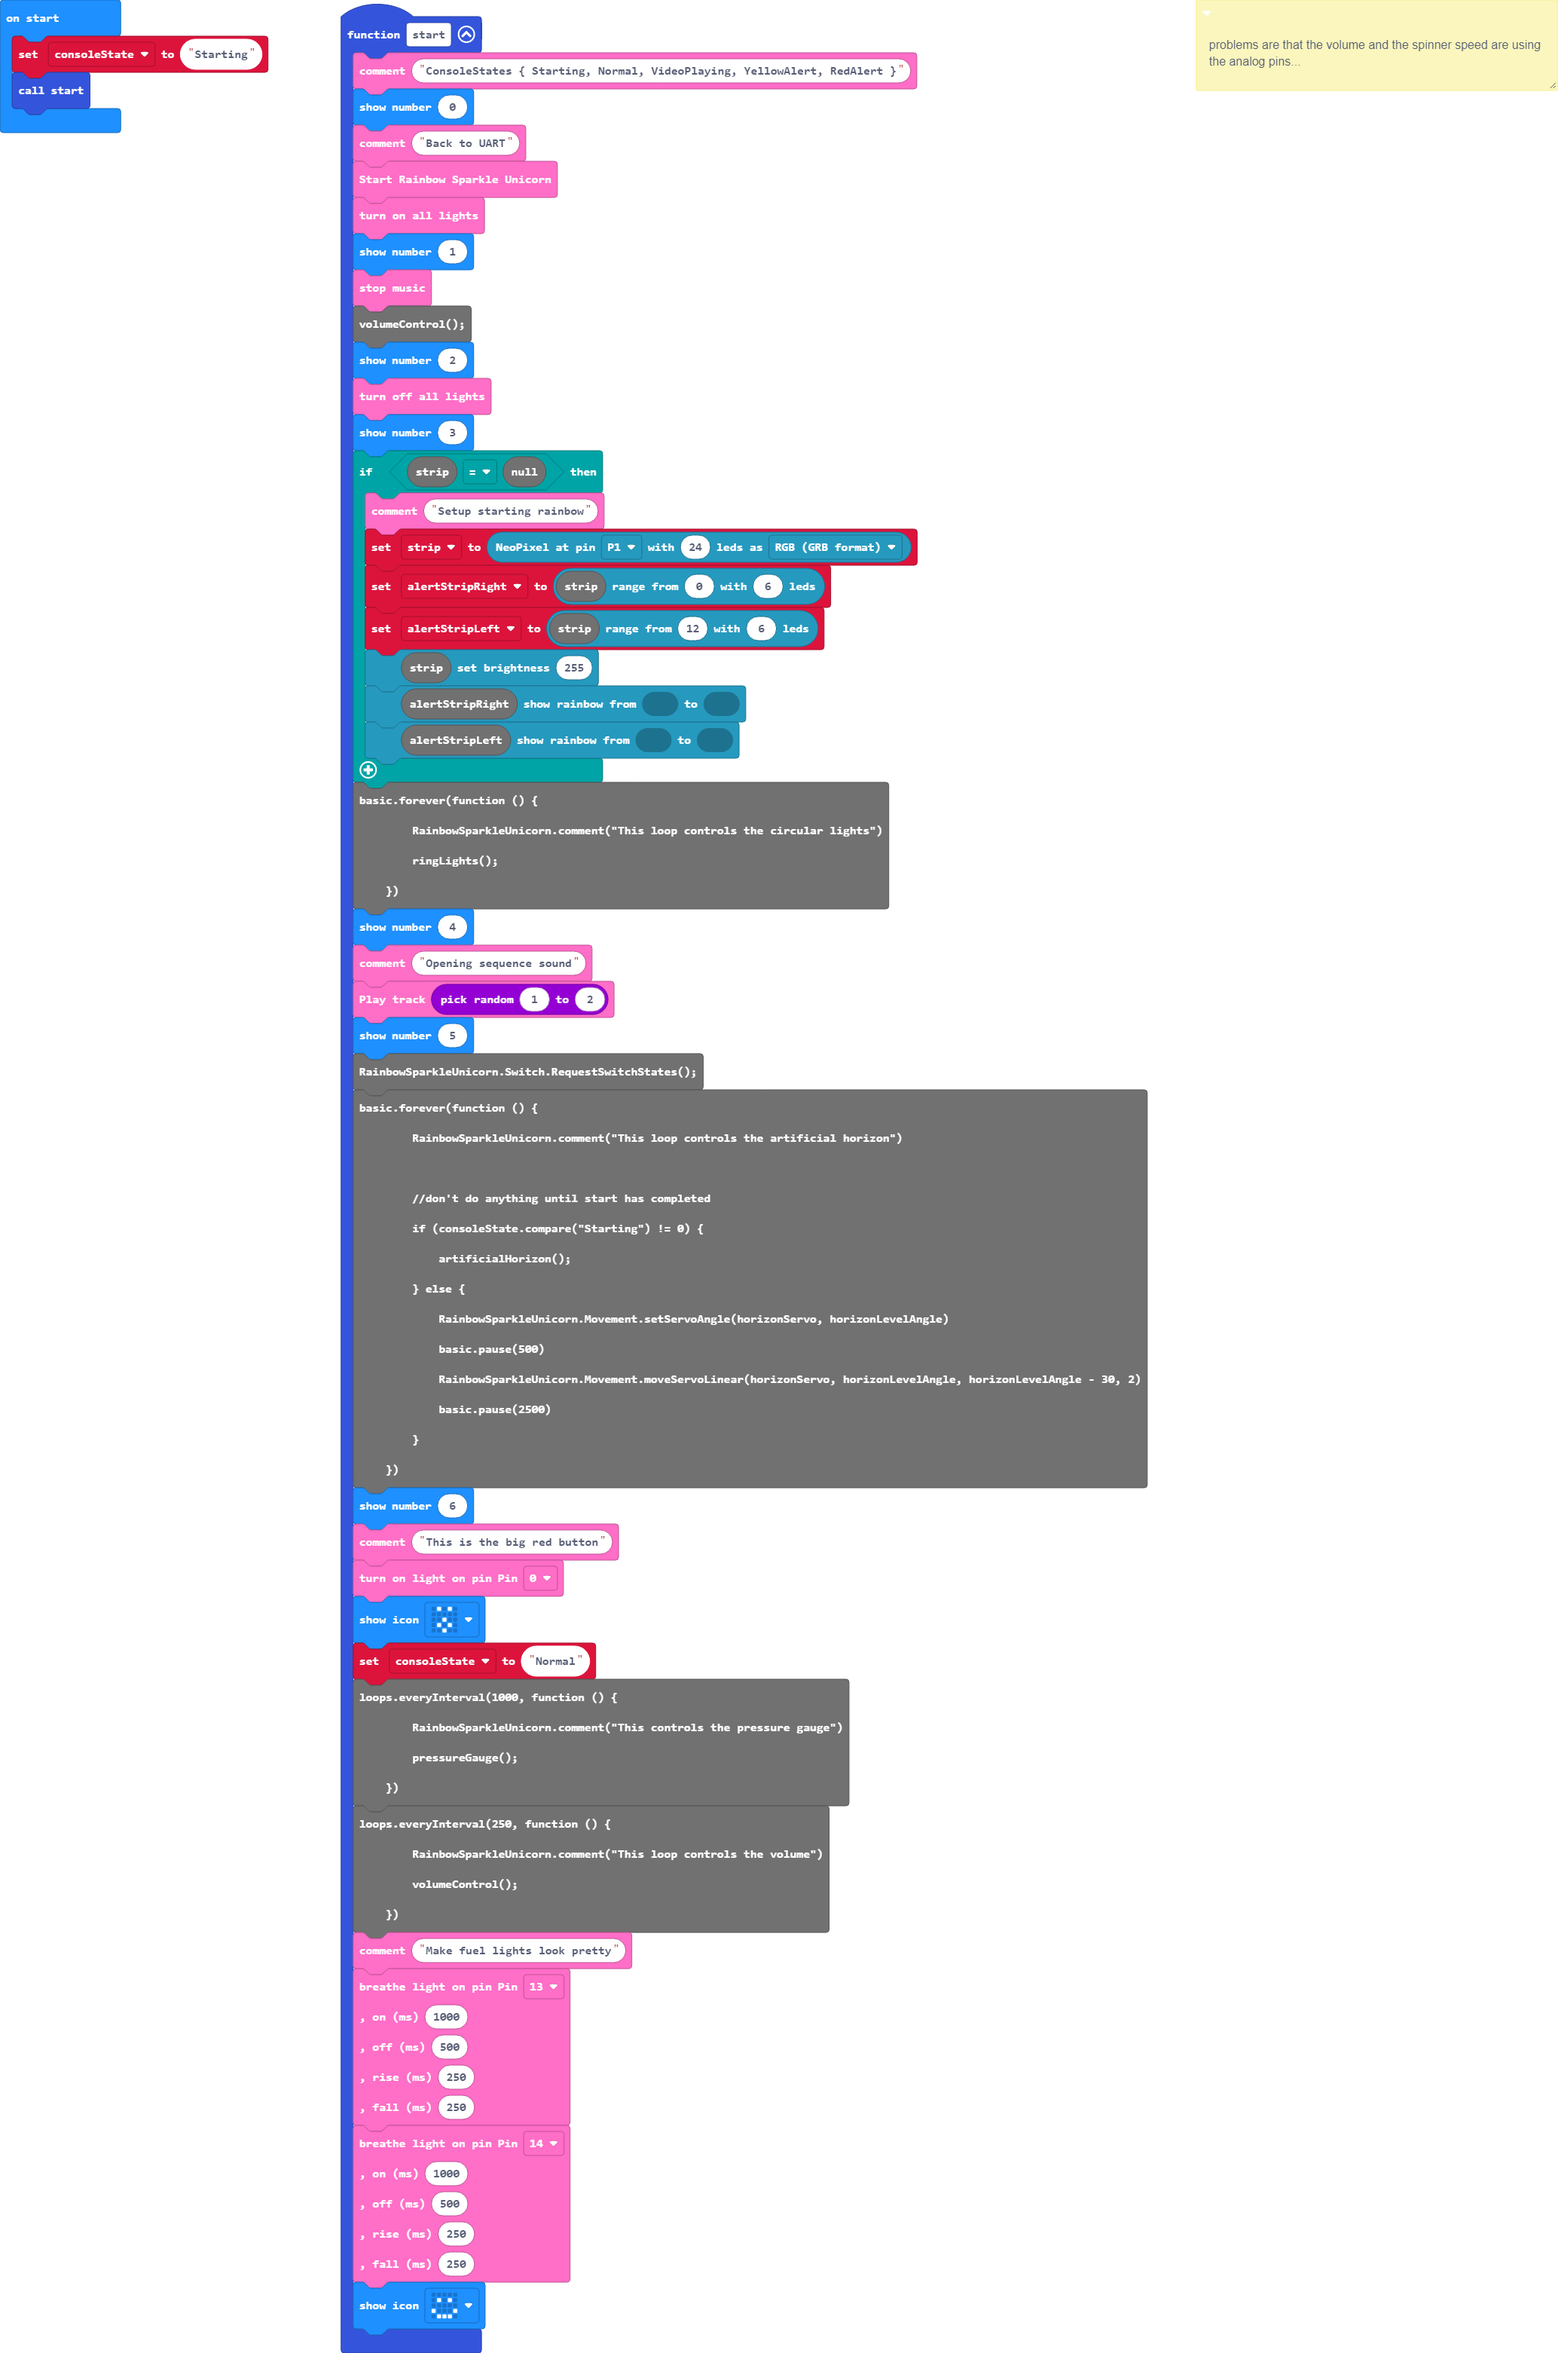
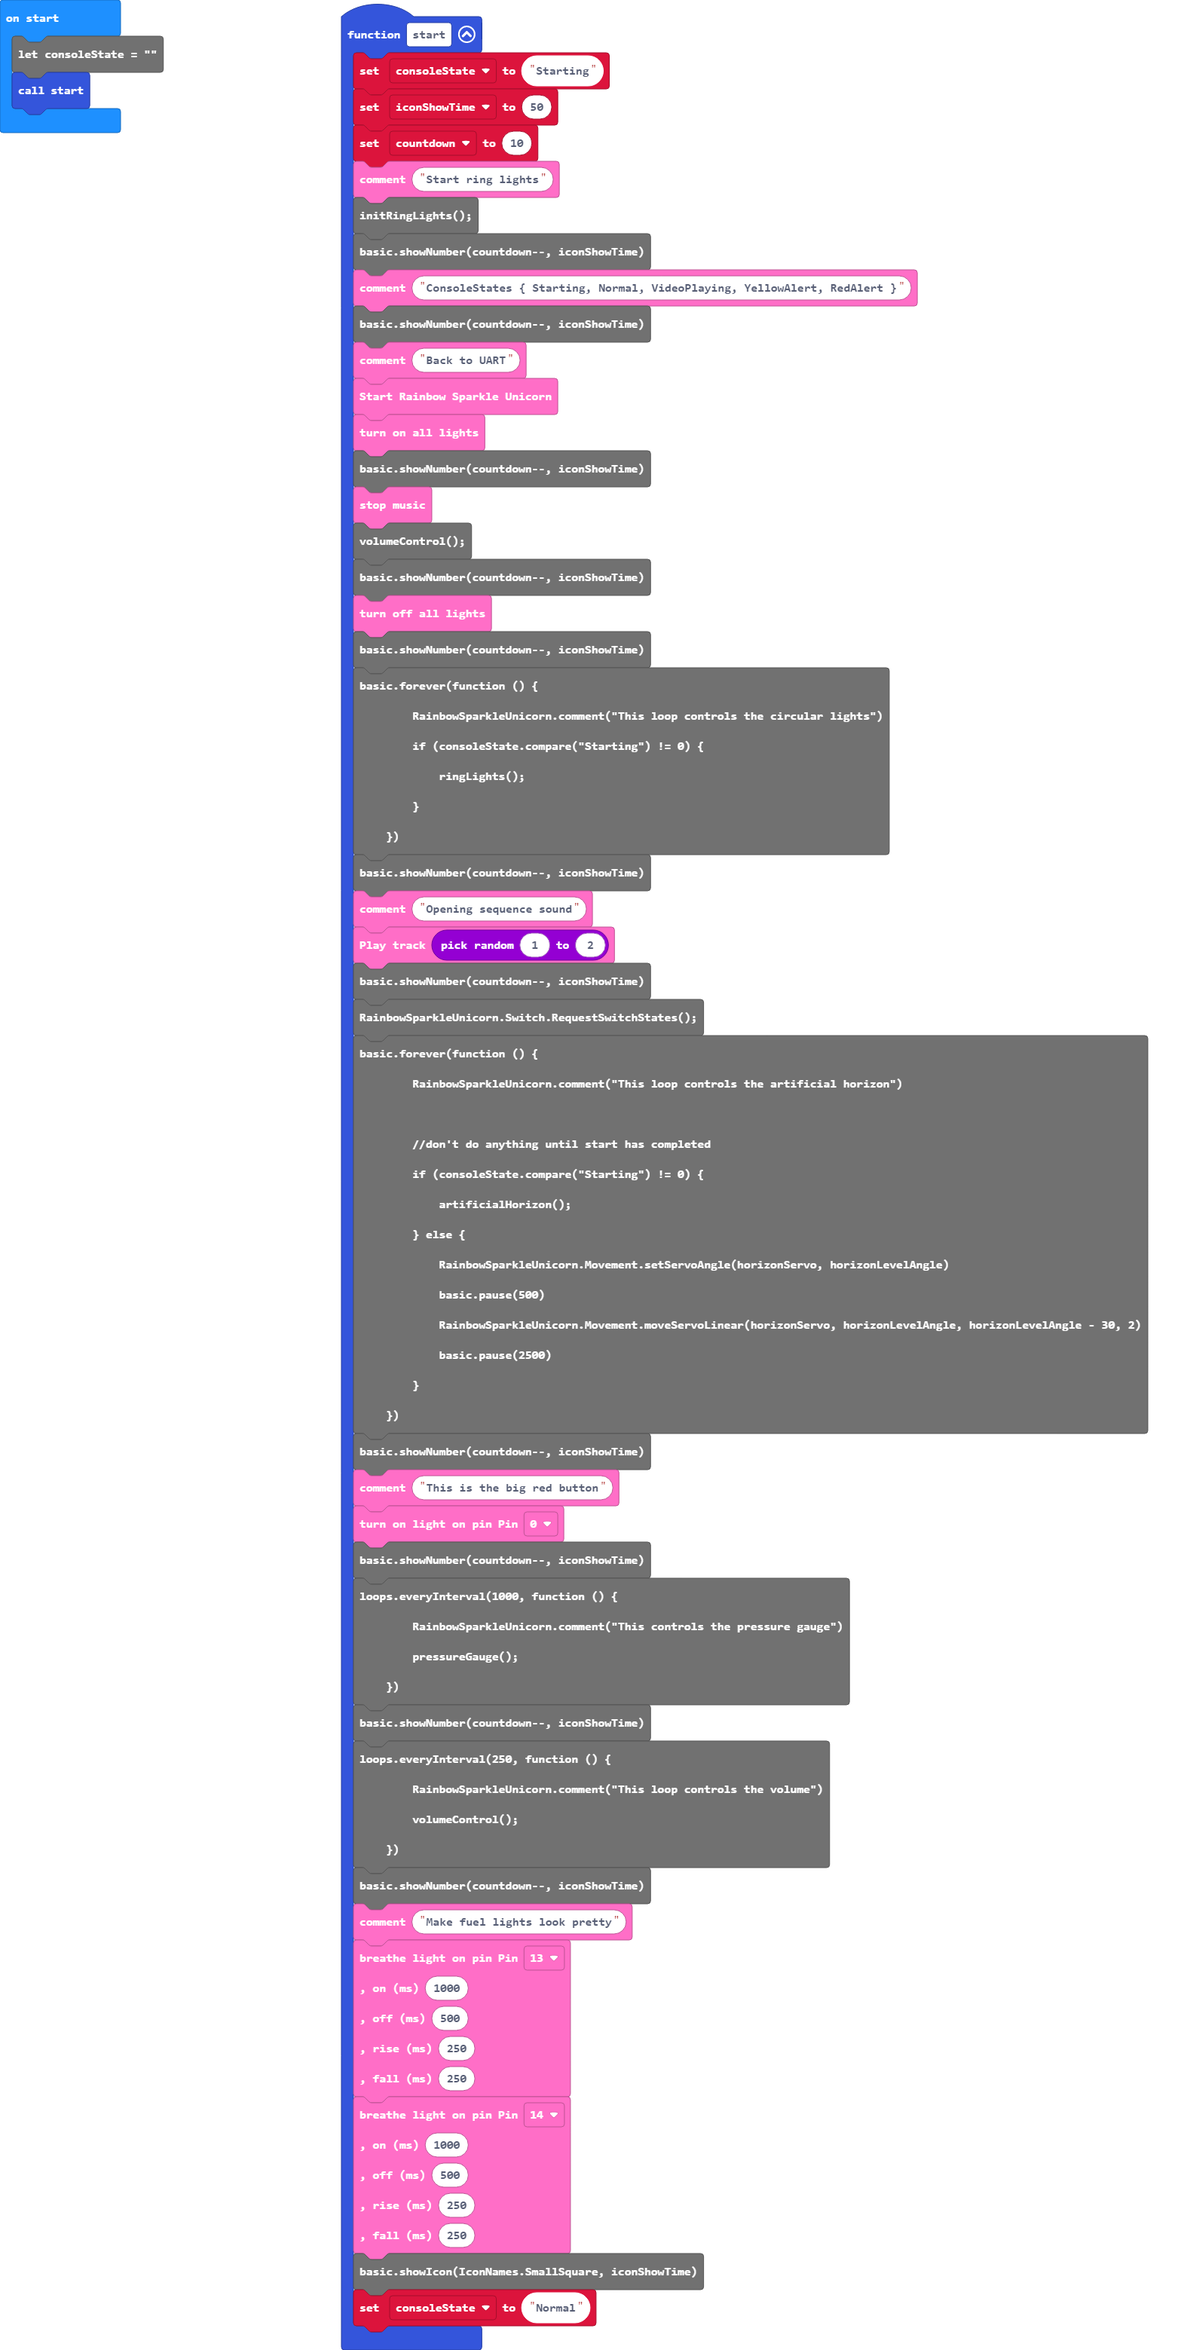
Update main.blocks, main.ts, ringLights.ts, sounds.ts, buttons.ts

diff --git a/buttons.ts b/buttons.ts
@@ -1,8 +1,9 @@
 
-// RainbowSparkleUnicorn.Switch.onAnyPressed(function (pin) {    
-//     //dealWithButtonPress(pin);
-//     basic.showNumber(pin);
-// })
+RainbowSparkleUnicorn.Switch.onAnyPressed(function (pin) {
+    if (consoleState.compare("Starting") != 0) {
+        basic.showNumber(pin);
+    }
+})
 
 const btnBottomLatching = RainbowSparkleUnicorn.Switch.Pins.P8;
 const btnRedAlert = RainbowSparkleUnicorn.Switch.Pins.P1;
@@ -19,80 +20,110 @@ const joystickLeft = RainbowSparkleUnicorn.Switch.Pins.P6;
 RainbowSparkleUnicorn.Switch.onPressed(btnRedAlert, function () {
     RainbowSparkleUnicorn.comment("Red Alert")
 
-    //prevents them pressing the button repeatedly!
-    if (RainbowSparkleUnicorn.Sound.track() != 99) {
-        consoleState = "RedAlert"
-        RainbowSparkleUnicorn.Sound.playTrack(99)
-        setColour(neopixel.colors(NeoPixelColors.Red));
-    }
-})
+    if (consoleState.compare("Starting") != 0) {
 
-RainbowSparkleUnicorn.Switch.onPressed(btnWarp, function () {
-    RainbowSparkleUnicorn.comment("Red Spinner")
-    alertStripLeft.showRainbow()
-    alertStripRight.showRainbow()
-    RainbowSparkleUnicorn.Sound.playTrack(21)
+        //prevents them pressing the button repeatedly!
+        if (RainbowSparkleUnicorn.Sound.track() != 99) {
+            consoleState = "RedAlert"
+            RainbowSparkleUnicorn.Sound.playTrack(99)
+            setColour(neopixel.colors(NeoPixelColors.Red));
+        }
+    }
 })
 
 RainbowSparkleUnicorn.Switch.onPressed(btnImpulse, function () {
     RainbowSparkleUnicorn.comment("White Spinner")
-    RainbowSparkleUnicorn.Sound.playTrack(22)
-    setColour(neopixel.colors(NeoPixelColors.Purple));
+
+    if (consoleState.compare("Starting") != 0) {
+
+        RainbowSparkleUnicorn.Sound.playTrack(22)
+        setColour(neopixel.colors(NeoPixelColors.Purple));
+    }
 })
 
 RainbowSparkleUnicorn.Switch.onPressed(joystickLeft, function () {
-    RainbowSparkleUnicorn.Sound.playTrack(Math.randomRange(81, 85));
-    setColour(neopixel.colors(NeoPixelColors.Indigo));
+
+    if (consoleState.compare("Starting") != 0) {
+
+        RainbowSparkleUnicorn.Sound.playTrack(Math.randomRange(81, 85));
+        setColour(neopixel.colors(NeoPixelColors.Indigo));
+    }
 })
 
 RainbowSparkleUnicorn.Switch.onPressed(joystickRight, function () {
-    RainbowSparkleUnicorn.Sound.playTrack(Math.randomRange(81, 85));
-    setColour(neopixel.colors(NeoPixelColors.Yellow));
+    if (consoleState.compare("Starting") != 0) {
+        RainbowSparkleUnicorn.Sound.playTrack(Math.randomRange(81, 85));
+        setColour(neopixel.colors(NeoPixelColors.Yellow));
+    }
 })
 
 RainbowSparkleUnicorn.Switch.onPressed(btnActionRed, function () {
-    RainbowSparkleUnicorn.comment("Red Button")
-    RainbowSparkleUnicorn.Sound.playTrack(70)
-    setColour(neopixel.colors(NeoPixelColors.Red));
-    consoleState = "RedAlert"
+
+    if (consoleState.compare("Starting") != 0) {
+
+        RainbowSparkleUnicorn.comment("Red Button")
+        RainbowSparkleUnicorn.Sound.playTrack(70)
+        setColour(neopixel.colors(NeoPixelColors.Red));
+        consoleState = "RedAlert"
+    }
 })
 
 RainbowSparkleUnicorn.Switch.onPressed(btnActionGreen, function () {
-    RainbowSparkleUnicorn.Sound.playTrack(20)
-    setColour(neopixel.colors(NeoPixelColors.Green));
-    consoleState = "Normal"
+
+    if (consoleState.compare("Starting") != 0) {
+
+        RainbowSparkleUnicorn.Sound.playTrack(20)
+        setColour(neopixel.colors(NeoPixelColors.Green));
+        consoleState = "Normal"
+    }
 })
 
 RainbowSparkleUnicorn.Switch.onPressed(btnActionBlue, function () {
-    RainbowSparkleUnicorn.Sound.playTrack(23)
-    setColour(neopixel.colors(NeoPixelColors.Blue));
-    consoleState = "Normal";
+
+    if (consoleState.compare("Starting") != 0) {
+
+        RainbowSparkleUnicorn.Sound.playTrack(23)
+        setColour(neopixel.colors(NeoPixelColors.Blue));
+        consoleState = "Normal";
+    }
 })
 
 RainbowSparkleUnicorn.Switch.onPressed(btnBottomLatching, function () {
-    RainbowSparkleUnicorn.Sound.playTrack(21)
-    control.inBackground(function() {
-        setColour(neopixel.colors(NeoPixelColors.Blue));
-        basic.pause(1000);
-        alertStripLeft.showRainbow()
-        alertStripRight.showRainbow()
-        consoleState = "Normal";
-    })  
+
+    if (consoleState.compare("Starting") != 0) {
+
+        RainbowSparkleUnicorn.Sound.playTrack(21)
+        control.inBackground(function () {
+            setColour(neopixel.colors(NeoPixelColors.Blue));
+            basic.pause(1000);
+            alertStripLeft.showRainbow()
+            alertStripRight.showRainbow()
+            consoleState = "Normal";
+        })
+    }
 })
 
 RainbowSparkleUnicorn.Switch.onPressed(btnWarp, function () {
-    RainbowSparkleUnicorn.comment("Red Spinner")
-    alertStripLeft.showRainbow()
-    alertStripRight.showRainbow()
-    RainbowSparkleUnicorn.Sound.playTrack(10)
+
+    if (consoleState.compare("Starting") != 0) {
+
+        RainbowSparkleUnicorn.comment("Red Spinner")
+        alertStripLeft.showRainbow()
+        alertStripRight.showRainbow()
+        RainbowSparkleUnicorn.Sound.playTrack(10)
+    }
 })
 
 RainbowSparkleUnicorn.Switch.onReleased(btnFuelRight, function () {
-    RainbowSparkleUnicorn.Light.turnOff(RainbowSparkleUnicorn.Light.Pins.P14);
-    RainbowSparkleUnicorn.Light.blink(RainbowSparkleUnicorn.Light.Pins.P13, 1000, 500)
+    if (consoleState.compare("Starting") != 0) {
+        RainbowSparkleUnicorn.Light.turnOff(RainbowSparkleUnicorn.Light.Pins.P14);
+        RainbowSparkleUnicorn.Light.blink(RainbowSparkleUnicorn.Light.Pins.P13, 1000, 500)
+    }
 })
 
 RainbowSparkleUnicorn.Switch.onReleased(btnFuelLeft, function () {
-    RainbowSparkleUnicorn.Light.turnOff(RainbowSparkleUnicorn.Light.Pins.P13);
-    RainbowSparkleUnicorn.Light.blink(RainbowSparkleUnicorn.Light.Pins.P14, 1000, 500)
+    if (consoleState.compare("Starting") != 0) {
+        RainbowSparkleUnicorn.Light.turnOff(RainbowSparkleUnicorn.Light.Pins.P13);
+        RainbowSparkleUnicorn.Light.blink(RainbowSparkleUnicorn.Light.Pins.P14, 1000, 500)
+    }
 })

diff --git a/main.ts b/main.ts
@@ -1,10 +1,10 @@
-
-
-
-
 function start() {
-    const iconShowTime = 50;
-    let countdown = 9;
+    consoleState = "Starting"
+    iconShowTime = 50
+    countdown = 10
+    RainbowSparkleUnicorn.comment("Start ring lights")
+    basic.showNumber(countdown--, iconShowTime)
+    initRingLights();
     RainbowSparkleUnicorn.comment("ConsoleStates { Starting, Normal, VideoPlaying, YellowAlert, RedAlert }")
     basic.showNumber(countdown--, iconShowTime)
     RainbowSparkleUnicorn.comment("Back to UART")
@@ -16,18 +16,11 @@ function start() {
     basic.showNumber(countdown--, iconShowTime)
     RainbowSparkleUnicorn.Light.turnAllOff()
     basic.showNumber(countdown--, iconShowTime)
-    if (strip == null) {
-        RainbowSparkleUnicorn.comment("Setup starting rainbow")
-        strip = neopixel.create(DigitalPin.P1, 24, NeoPixelMode.RGB)
-        alertStripRight = strip.range(0, 6)
-        alertStripLeft = strip.range(12, 6)
-        strip.setBrightness(255)
-        alertStripRight.showRainbow(0, 0)
-        alertStripLeft.showRainbow(0, 0)
-    }
     basic.forever(function () {
         RainbowSparkleUnicorn.comment("This loop controls the circular lights")
-        ringLights();
+        if (consoleState.compare("Starting") != 0) {
+            ringLights();
+        }
     })
     basic.showNumber(countdown--, iconShowTime)
     RainbowSparkleUnicorn.comment("Opening sequence sound")
@@ -51,7 +44,6 @@ function start() {
     RainbowSparkleUnicorn.comment("This is the big red button")
     RainbowSparkleUnicorn.Light.turnOn(RainbowSparkleUnicorn.Light.Pins.P0)
     basic.showNumber(countdown--, iconShowTime)
-    consoleState = "Normal"
     loops.everyInterval(1000, function () {
         RainbowSparkleUnicorn.comment("This controls the pressure gauge")
         pressureGauge();
@@ -78,8 +70,9 @@ function start() {
         250
     )
     basic.showIcon(IconNames.SmallSquare, iconShowTime)
+    consoleState = "Normal"
 }
-
+let countdown = 0
+let iconShowTime = 0
 let consoleState = ""
-consoleState = "Starting"
 start()

diff --git a/ringLights.ts b/ringLights.ts
@@ -5,6 +5,8 @@ let strip: neopixel.Strip = null
 
 function ringLights() {
 
+    initRingLights();
+
     alertStripLeft.rotate(1);
     alertStripRight.rotate(1);
     strip.show();
@@ -16,10 +18,26 @@ function ringLights() {
 
 function setColour(rgb: number) {
 
+    initRingLights();
+
     alertStripLeft.showColor(rgb)
     alertStripRight.showColor(rgb)
     alertStripLeft.setPixelColor(0, NeoPixelColors.Black)
     alertStripRight.setPixelColor(0, NeoPixelColors.Black)
     alertStripLeft.setPixelColor(1, NeoPixelColors.Black)
     alertStripRight.setPixelColor(1, NeoPixelColors.Black)
+}
+
+function initRingLights() {
+
+    if (strip == null) {
+        RainbowSparkleUnicorn.comment("Setup starting rainbow")
+        strip = neopixel.create(DigitalPin.P1, 24, NeoPixelMode.RGB)
+        alertStripRight = strip.range(0, 6)
+        alertStripLeft = strip.range(12, 6)
+        strip.setBrightness(255)
+        alertStripRight.showRainbow()
+        alertStripLeft.showRainbow()
+    }
+
 }

diff --git a/sounds.ts b/sounds.ts
@@ -1,17 +1,5 @@
-// function soundControl() {
-//     let playingSound = RainbowSparkleUnicorn.Sound.playingSound();
-// }
-
-// RainbowSparkleUnicorn.Sound.onStopStart(function (busy) {
-//     if (busy == false) {
-//         //basic.pause(500);
-//         RainbowSparkleUnicorn.Sound.playTrack(Math.randomRange(50, 52));
-//         basic.pause(500);
-//     }
-// })
 
 RainbowSparkleUnicorn.Sound.onStop(function () {
-    basic.pause(500);
+    basic.pause(1000);
     RainbowSparkleUnicorn.Sound.playTrack(Math.randomRange(50, 52));
-    basic.pause(500);
 })
